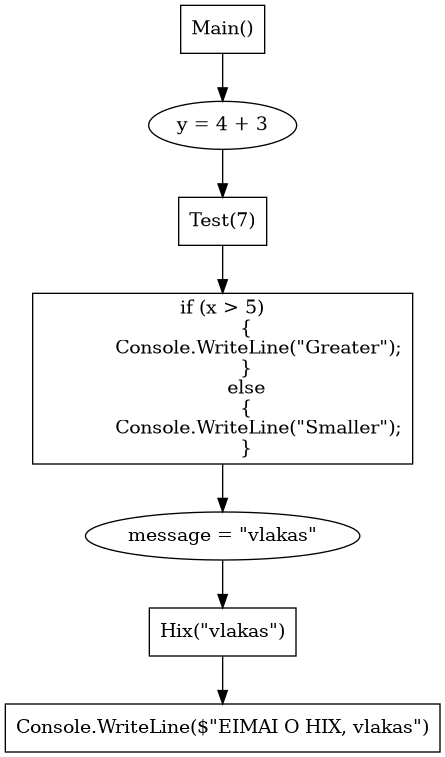
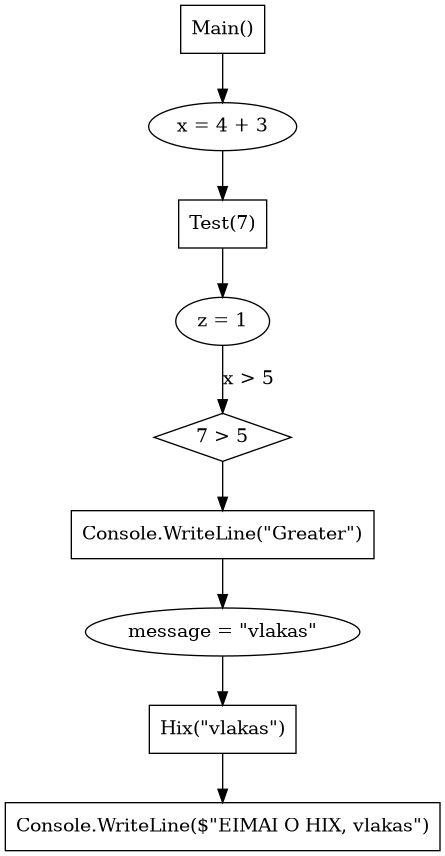
so good

diff --git a/Program.cs b/Program.cs
@@ -8,12 +8,14 @@ public class Sample
 {
     public static void Main(string[] args)
     {
-        var y = 4 + 3;
-        Test(y);
+        var x = 4 + 3;
+        Test(x);
     }
 
     public void Test(int x)
     {
+        var z = 1;
+
         if (x > 5)
         {
             Console.WriteLine(""Greater"");
@@ -41,24 +43,37 @@ string flowchart = "digraph Flowchart {\n";
 
 int nodeId = 1;
 int parentId = 0;
+int lastMethodNodeId = 0;
 Dictionary<string, int> methodNodes = new();
 Dictionary<string, string> variables = new();
+Dictionary<string, List<string>> methodParameters = new();
 
 foreach (var method in root.DescendantNodes().OfType<MethodDeclarationSyntax>())
 {
     methodNodes[method.Identifier.Text] = nodeId;
+    var parameterNames = method.ParameterList.Parameters
+        .Select(p => p.Identifier.Text)
+        .ToList();
+    methodParameters[method.Identifier.Text] = parameterNames;
 
-    WriteLine(method.Identifier);
     if (nodeId == 1)
     {
         flowchart += $"    Node0 [shape=box, label=\"{method.Identifier.Text}()\"];\n";
+        lastMethodNodeId = 0;
     }
 
-    foreach (var statement in method.Body.Statements)
+    parentId = lastMethodNodeId;
+
+    for (int i = 0; i < method.Body.Statements.Count; i++)
     {
-        flowchart += ProcessStatement(statement, ref nodeId, $"Node{parentId}", methodNodes, variables);
-        parentId++;
+        var statement = method.Body.Statements[i];
+        var result = ProcessStatement(statement, ref nodeId, $"Node{parentId}", methodNodes, variables);
+        flowchart += result;
+
+        parentId = nodeId - 1;
     }
+
+    lastMethodNodeId = parentId;
 }
 
 flowchart += "}\n";
@@ -88,11 +103,6 @@ static string ProcessStatement(
         {
             int evaluatedValue = EvaluateBinaryExpression(binaryExpr);
             variables[variableName] = evaluatedValue.ToString();
-
-            output += $"    Node{currentId} [shape=ellipse, label=\"{variableName} = {varDecl.Declaration.Variables.First().Initializer.Value}\"];\n";
-            output += $"    {parentNode} -> Node{currentId};\n";
-
-            return output;
         }
 
         output += $"    Node{currentId} [shape=ellipse, label=\"{variableName} = {variableValue.Replace("\"", "\\\"")}\"];\n";
@@ -101,47 +111,97 @@ static string ProcessStatement(
         return output;
     }
 
-    if (statement is ExpressionStatementSyntax exprStmt)
+    if (statement is ExpressionStatementSyntax exprStmt &&
+        exprStmt.Expression is InvocationExpressionSyntax invocationExpr)
     {
-        if (exprStmt.Expression is InvocationExpressionSyntax invocationExpr)
+        var invocationText = invocationExpr.ToString();
+
+        foreach (var variable in variables)
         {
-            var invocationText = invocationExpr.ToString();
-            foreach (var variable in variables)
+            foreach (var arg in invocationExpr.ArgumentList.Arguments)
             {
-                if (invocationText.Contains($"{{{variable.Key}}}"))
+                if (arg.Expression is IdentifierNameSyntax argName &&
+                    argName.Identifier.Text == variable.Key)
                 {
-                    var rawValue = variable.Value.Trim('"');
-                    invocationText = invocationText.Replace($"{{{variable.Key}}}", rawValue);
-                }
-                else
-                {
-                    invocationText = invocationText.Replace(variable.Key, variable.Value);
+                    if (invocationText.Contains($"{{{variable.Key}}}"))
+                    {
+                        var rawValue = variable.Value.Trim('"');
+                        invocationText = invocationText.Replace($"{{{variable.Key}}}", rawValue);
+                    }
+                    else
+                    {
+                        invocationText = invocationText.Replace(variable.Key, variable.Value);
+                    }
                 }
             }
-
-            output += $"    Node{currentId} [shape=box, label=\"{invocationText.Replace("\"", "\\\"")}\"];\n";
-            output += $"    {parentNode} -> Node{currentId};\n";
-
-            return output;
         }
-    }
 
-    if (statement is BlockSyntax blockStmt)
-    {
-        foreach (var stmt in blockStmt.Statements)
+        foreach (var variable in variables)
         {
-            return ProcessStatement(stmt, ref nodeId, parentNode, methodNodes, variables);
+            if (invocationText.Contains($"{{{variable.Key}}}"))
+            {
+                var rawValue = variable.Value.Trim('"');
+                invocationText = invocationText.Replace($"{{{variable.Key}}}", rawValue);
+            }
         }
+
+        output += $"    Node{currentId} [shape=box, label=\"{invocationText.Replace("\"", "\\\"")}\"];\n";
+        output += $"    {parentNode} -> Node{currentId};\n";
+
+        return output;
     }
 
-    var statementText = statement.ToString();
-    foreach (var variable in variables)
+    if (statement is IfStatementSyntax ifStmt)
     {
-        statementText = statementText.Replace(variable.Key, variable.Value);
-    }
+        var conditionText = ifStmt.Condition.ToString();
+        output += $"    {parentNode} -> Node{currentId} [label=\"{conditionText}\"];\n";
 
-    output += $"    Node{currentId} [shape=box, label=\"{statementText.Replace("\"", "\\\"")}\"];\n";
-    output += $"    {parentNode} -> Node{currentId};\n";
+        foreach (var variable in variables)
+        {
+            conditionText = conditionText.Replace(variable.Key, variable.Value);
+        }
+
+        output += $"    Node{currentId} [shape=diamond, label=\"{conditionText}\"];\n";
+
+        int ifNodeId = currentId;
+        int lastNodeId = ifNodeId;
+
+        if (EvaluateCondition(conditionText))
+        {
+            if (ifStmt.Statement is BlockSyntax block)
+            {
+                foreach (var blockStatement in block.Statements)
+                {
+                    output += ProcessStatement(blockStatement, ref nodeId, $"Node{lastNodeId}", methodNodes, variables);
+                    lastNodeId = nodeId - 1;
+                }
+            }
+            else
+            {
+                output += ProcessStatement(ifStmt.Statement, ref nodeId, $"Node{ifNodeId}", methodNodes, variables);
+                lastNodeId = nodeId - 1;
+            }
+        }
+        else if (ifStmt?.Else != null)
+        {
+            if (ifStmt.Else.Statement is BlockSyntax block)
+            {
+                foreach (var blockStatement in block.Statements)
+                {
+                    output += ProcessStatement(blockStatement, ref nodeId, $"Node{lastNodeId}", methodNodes, variables);
+                    lastNodeId = nodeId - 1;
+                }
+            }
+            else
+            {
+                output += ProcessStatement(ifStmt.Else.Statement, ref nodeId, $"Node{ifNodeId}", methodNodes, variables);
+                lastNodeId = nodeId - 1;
+            }
+        }
+
+        nodeId = lastNodeId + 1;
+        return output;
+    }
 
     return output;
 }
@@ -161,6 +221,19 @@ static int EvaluateBinaryExpression(BinaryExpressionSyntax binaryExpr)
             _ => 0
         };
     }
-
     return 0;
+}
+
+static bool EvaluateCondition(string condition)
+{
+    try
+    {
+        var dataTable = new System.Data.DataTable();
+        return Convert.ToBoolean(dataTable.Compute(condition, ""));
+    }
+    catch
+    {
+        WriteLine("Condition evaluation failed.");
+        return false;
+    }
 }

diff --git a/fix.md b/fix.md
@@ -1,0 +1,3 @@
+1. pass variables as "x" but be able to read them as whatever is the method's signature argument
+2. if else
+3. make sure progress stays linear
